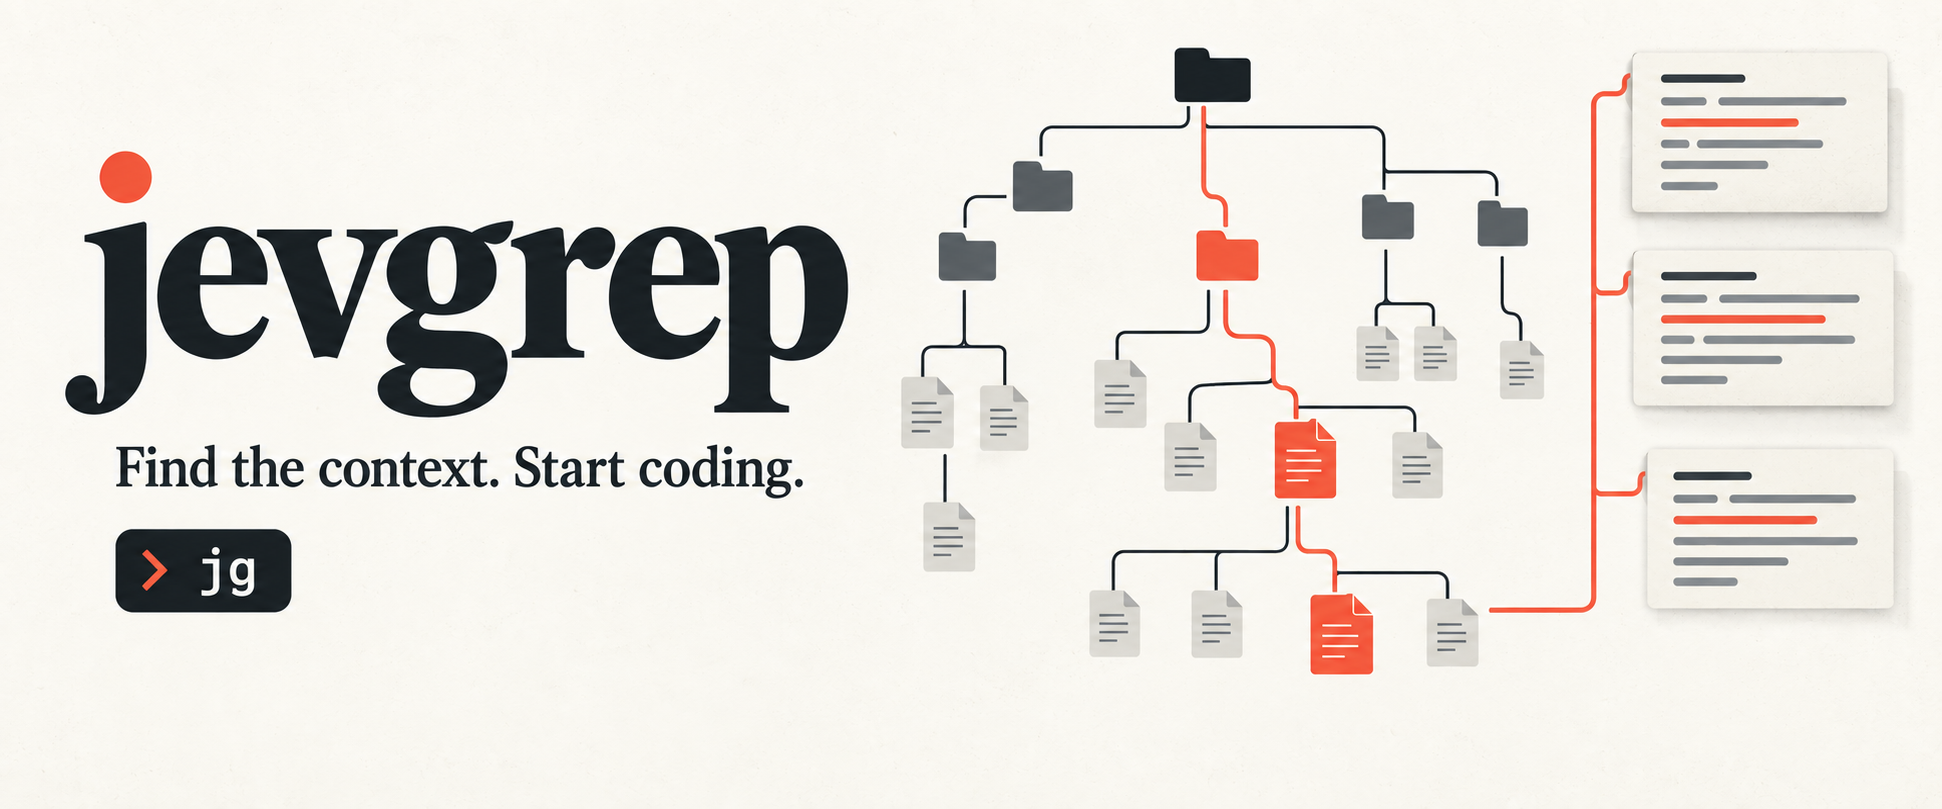
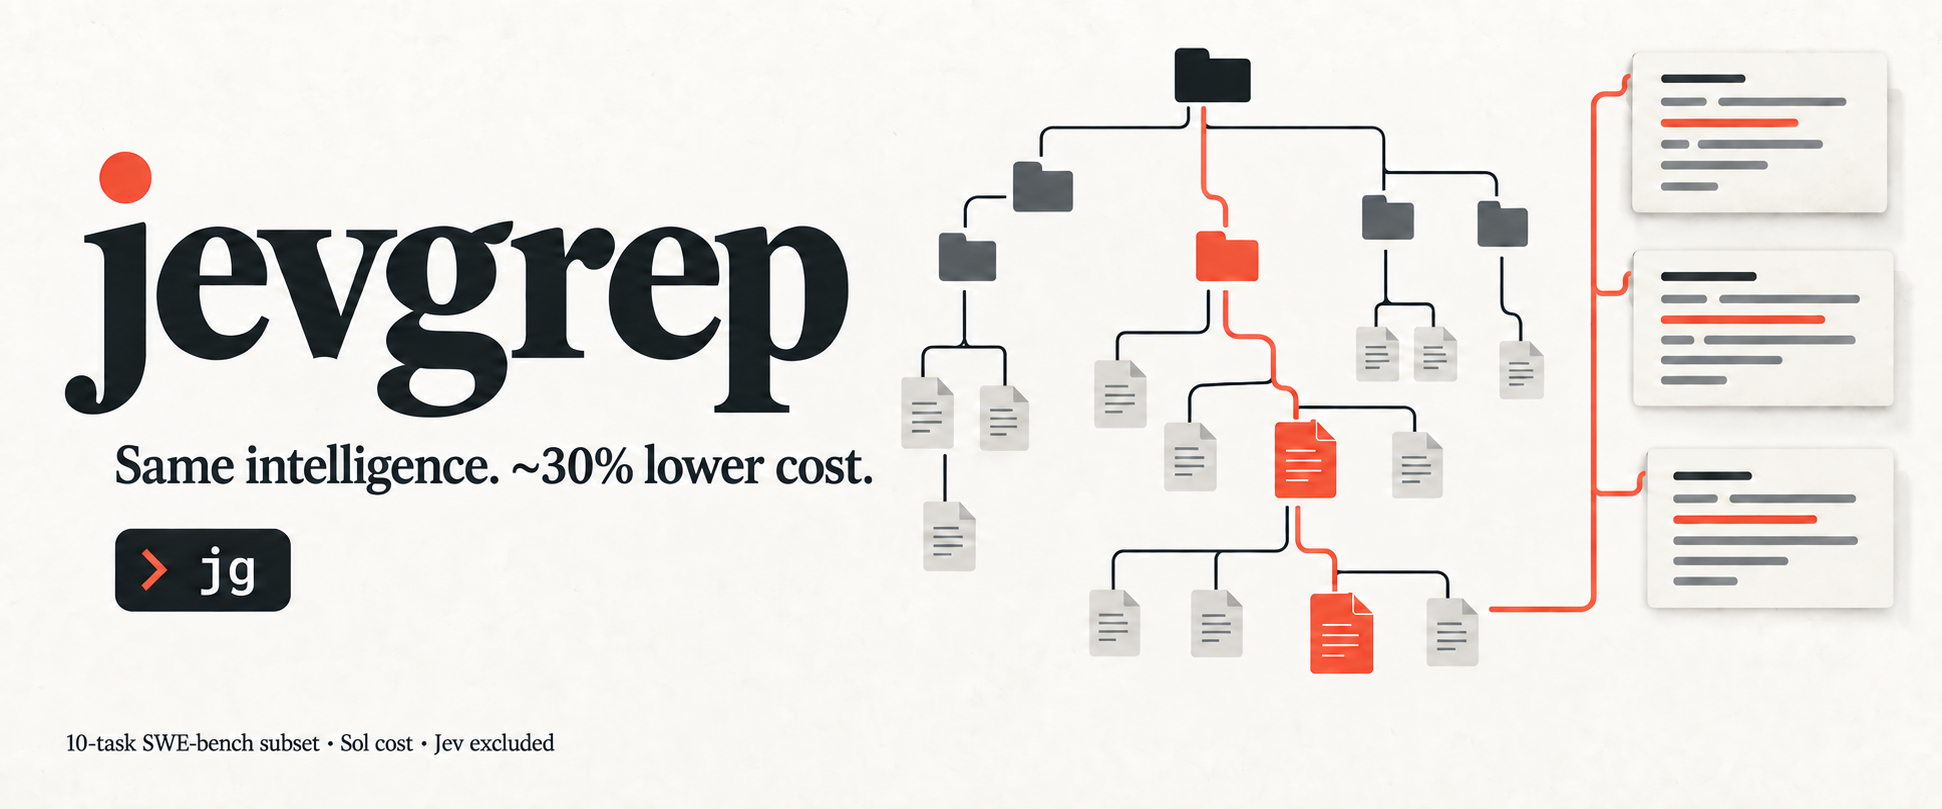
Refresh README artwork and prepare 0.4.0

diff --git a/assets/README.md b/assets/README.md
@@ -1,35 +1,34 @@
 # README artwork
 
-Generated with the built-in image generation tool for the public README.
-The cover illustrates discovery; it is not a literal file tree or CLI screenshot.
-The explainer's example code is illustrative. Its benchmark claim comes from the
-[retained repeat](../specs/done/jevgrep/assets/variance-repeat.md): 40.70% lower full
-Sol cost across ten tasks, including failures, excluding Jev; 7/10 solves versus
-8/10 baseline. The image rounds the reduction down to 40%. It does not claim
-unchanged quality, faster execution, or general savings.
+Both README images were updated with the built-in image-generation tool, retaining
+the original ivory, ink and vermilion visual style. They illustrate retrieval;
+the example code and file tree are illustrative.
 
-## Cover prompt
+The headline rounds the observed 28.6% cost reduction to **~30%**. Both arms
+solved 8/10 tasks; total Sol cost was $7.62 without Jevgrep and $5.44 with it.
+The [benchmark report](../evals/results/relevance-threshold-2026-09-27.md) owns the
+methodology, exact costs and limitations. Jev cost is excluded. These are observed
+results on a tuned ten-task Python subset, not a speed claim or a universal guarantee.
 
-Create a finished wide landscape GitHub README hero image for an open-source developer CLI called "jevgrep", executable "jg". Aspect ratio about 2.4:1. Editorial technical illustration, refined print-like graphic design, warm ivory background, near-black ink, vibrant vermilion and muted blue accents. Strong typographic hierarchy, generous whitespace. Left half large crisp title exactly "jevgrep", smaller subtitle exactly "Find the context. Start coding." and a small terminal pill exactly "jg". Right half an elegant illustrated branching file tree: many small paper/code cards, a few highlighted coral branches leading to a neat small stack of source excerpts. Communicate semantic research through source files, grounded and calm. Flat shapes with slight paper grain, precise thin connectors, no gradients, no robots, no generic AI sparkle, no photos, no fake UI or charts. All text spelled exactly as given. Keep safe margins and very legible at GitHub README width. This is a project header image, not a web page screenshot.
+## Final edit prompts
 
-### Final cover edit
+### cover
 
-Edit this Jevgrep README header while preserving its warm ivory/black/vermilion editorial style, large title, exact subtitle "Find the context. Start coding.", jg terminal pill, and wide composition. Simplify the right-hand file tree into elegant folder and document icons with code represented ONLY by abstract horizontal lines. Remove ALL tiny filename labels, all Rust code and .rs extensions, and replace the three rightmost source cards with clean abstract code lines (no words). Remove the bottom footer "SOURCE CODE × SEMANTIC SEARCH × FASTER PROGRESS" and the bottom-right italic extra tagline entirely. Do not add text. The ONLY text anywhere in the final image must be "jevgrep", "Find the context. Start coding.", and "jg". Keep the core idea: coral highlighted paths through a tree of folders and files flow into selected source cards. Avoid malformed connecting strokes; keep connectors crisp. Beautiful clear header at GitHub README width, no speed claims.
+Edit this wide README hero in its existing warm ivory, black serif, vermilion editorial style. Preserve the large "jevgrep" wordmark, jg terminal pill, and elegant highlighted folder tree flowing into source excerpt cards. Replace the subtitle "Find the context. Start coding." with exactly "Same solve rate. ~30% lower cost." Make this subtitle clearly legible and comfortably fit the left area. Add one small but readable footnote along bottom left exactly "10-task SWE-bench subset · Sol cost · Jev excluded". Keep abundant whitespace and crisp illustration. Only these text strings plus "jevgrep" and "jg" should appear. Wide landscape about 2.4:1. The ~ symbol must be present before 30% to indicate rounding. No speed claim.
 
-## Explainer prompt
+### explainer
 
-Create a finished landscape explainer graphic for the open-source developer CLI "jevgrep" / "jg", aspect ratio about 1.6:1. Match a premium editorial technical print aesthetic: warm ivory paper, near-black ink, vermilion highlights, muted blue file cards, thin clean connectors, ample whitespace, crisp highly readable typography. Top left small brand "jevgrep". Top main text exactly "40% lower coding-agent cost". Below it smaller exact text "One 10-task SWE-bench repeat". Middle: a clear left-to-right three-step illustrated flow with exact labels "Ask a repo question" then "Jev finds relevant code" then "Agent implements + tests". Use a speech card, branching folder/file tree highlighting qualifying files, then a compact source/code card and checkmark. Below flow a simple text comparison (not a misleading chart): "Baseline $7.62" then "With jg $4.52". Directly below, prominent readable disclosure: "Task solves: 8/10 baseline → 7/10 with jg". Bottom two lines readable, not tiny: "Full Sol task cost, including failed tasks. Jev cost excluded." and "Single repeat on a tuned Python subset. Savings are not guaranteed." Do not claim faster runtime or equal quality. Render all requested text exactly, with clear spacing. Numbers must not be changed. This standalone shareable graphic should explain both what jg does and the scope of its observed cost reduction. No extra logos, no decorative fake text, no gradients, no robot imagery.
+Update this README infographic, preserving the warm ivory/black/vermilion editorial aesthetic and clear three-step workflow. Replace the main headline with exactly "~30% lower coding-agent cost". Below it put exactly "Same solve rate. Less spend." Preserve the three headings "Ask a repo question", "Jev finds relevant code", "Agent implements + tests", and their illustrations, keeping the example pool size consistent at 10. Update the bottom comparison to "Baseline $7.62" and "With jg $5.44". Replace the task-solves line with exactly "8/10 solves with and without jg". Footer two readable lines: "10-task Python SWE-bench subset. Observed reduction: 28.6%." and "Full Sol task cost, including failures. Jev excluded." Remove every old 40%, $4.52, and 7/10 claim. Ensure all type fits cleanly, no tiny stray marks, no speed claim. Landscape about 1.6:1. Use exact text; ~30% is an honest rounded headline, 28.6% in footer is precise.
 
-### Final explainer edit
+### Final wording refinement
 
-Make a small final refinement to this Jevgrep explainer, preserving the entire layout, colors, headline, numbers, solve-rate disclosure, footnotes and all three stage headings exactly. Replace only the question bubble text with "Where is connection pooling configured? I need to add retries." in the same large readable monospaced style. Remove the tiny stray dark speck at the lower-left inside that bubble. In the right-hand example code card, simplify the body to just three large legible monospaced lines: "create_engine(", " pool_size=10,", ")" with the middle line highlighted pale green; preserve its src/db/connection.py header. Increase readability of the central tree's filename labels modestly if possible without overlap. No changes to the benchmark claims or other text.
+Edit only the subtitle in this image. Replace "Same solve rate. ~30% lower cost." with exactly "Same intelligence. ~30% lower cost." Preserve every other element, all illustration, wordmark, jg pill, colors, margins, aspect ratio, and footnote. Fit the new phrase legibly in the existing subtitle space. No other text changes.
+
+Edit only two text lines in this image. Replace subtitle "Same solve rate. Less spend." with exactly "Same intelligence. Less spend." Replace "8/10 solves with and without jg" with exactly "8 of 10 tasks solved — with and without jg". Preserve everything else including headline "~30% lower coding-agent cost", workflow, example code, prices Baseline $7.62 and With jg $5.44, and both benchmark footer lines. Keep typography crisp and fit the text with generous margins, no other changes.
 
 ## Visual review
 
-Final semantic correction prompt: Edit ONLY the text inside the left speech bubble in this image. Replace it with exactly "Where is pooling configured? I need a pool of 10 connections." Keep the font large, monospaced and readable, wrapped naturally within the existing bubble. Remove the stray speck inside the bottom-left of the bubble. Preserve EVERY other pixel as closely as possible: all headings, diagrams, code showing pool_size=10, numbers, benchmark disclosures, colors and layout must remain unchanged.
-
-An independent visual pass checked typography, layout, and benchmark disclosure.
-The final edits simplified the example code for readability and matched the
-requested pool size to the illustrated implementation. Fine file labels remain secondary at README
-width; open the image for detail. The cover is an abstract discovery illustration,
-not a literal filesystem. A tiny mark inside the speech bubble is cosmetic.
+A fresh visual review found no clipping, overlap, misspellings or conflicting
+benchmark numbers. The cover footnote is secondary at README scale; the README
+and explainer also state its scope. A small punctuation speck remains inside the
+illustrative question bubble and does not affect the text or comparison.

diff --git a/README.md b/README.md
@@ -1,4 +1,4 @@
-![jevgrep — Find the context. Start coding.](assets/cover.png)
+![jevgrep — Same intelligence. About 30% lower cost.](assets/cover.png)
 
 # jevgrep
 
@@ -7,7 +7,10 @@
 [![Node.js 22+](https://img.shields.io/badge/Node.js-22%2B-339933?style=flat-square)](apps/cli/README.md)
 [![Release](https://img.shields.io/github/actions/workflow/status/dzhng/jevgrep/publish.yml?style=flat-square&label=release)](https://github.com/dzhng/jevgrep/actions/workflows/publish.yml)
 
-**Find code by asking what it does.**
+**Same intelligence. ~30% lower cost.**
+
+Find code by asking what it does. In our ten-task SWE-bench comparison, Jevgrep
+successfully completed the same 8 of 10 tasks as the baseline, at lower cost.
 
 Coding agents spend part of every unfamiliar task finding the right files.
 Jevgrep gives them a place to start: ask a repository question, and `jg` returns
@@ -95,23 +98,18 @@ all you need. Jevgrep is most useful for questions that span unfamiliar files.
 
 ## What we measured
 
-**The final development cohort solved 8/10 tasks at about 28.6% lower
-coding-agent cost than the saved no-Jev baseline**, which also solved 8/10.
-Full Sol cost was $5.44 versus $7.62, including failures and excluding Jev.
-These are ten tuned Python SWE-bench tasks; they do not establish general savings.
+**Same intelligence, ~30% lower coding-agent cost.** Both
+Jevgrep and the no-Jev baseline solved **8/10 tasks**. Full Sol cost fell from
+**$7.62 to $5.44**—a measured **28.6% reduction**, rounded to ~30%—including failed
+attempts and excluding Jev cost.
 
-The cohort uses one frozen installed package and the exact neutral public skill
-in this repository. See the [results, artifact identities, experiments and
-limitations](evals/results/relevance-threshold-2026-09-27.md). Earlier cohorts and
-out-of-scope agent-guidance trials remain separately identified.
+![Jevgrep workflow: about 30% lower coding-agent cost, with 8 of 10 tasks solved both with and without Jevgrep.](assets/how-it-works.png)
 
-The image below describes the **earlier historical run**, which saved about 40%
-but solved 7/10 versus the baseline's 8/10. It is not the latest result.
-
-![Historical Jevgrep workflow and benchmark: 40% lower Sol task cost, 7/10 solves versus 8/10 baseline; Jev excluded.](assets/how-it-works.png)
-
-The [historical report](specs/done/jevgrep/assets/variance-repeat.md) and
-[evaluation guide](evals/README.md) retain the earlier evidence and methodology.
+This comparison uses ten tuned Python SWE-bench tasks, one frozen installed
+package and the exact public skill in this repository. It measures task success
+and cost, not a speed improvement or guaranteed savings on every repository.
+See the [results and methodology](evals/results/relevance-threshold-2026-09-27.md)
+for per-task costs, artifact identities and limitations.
 
 ## Source, credentials, and local state
 
